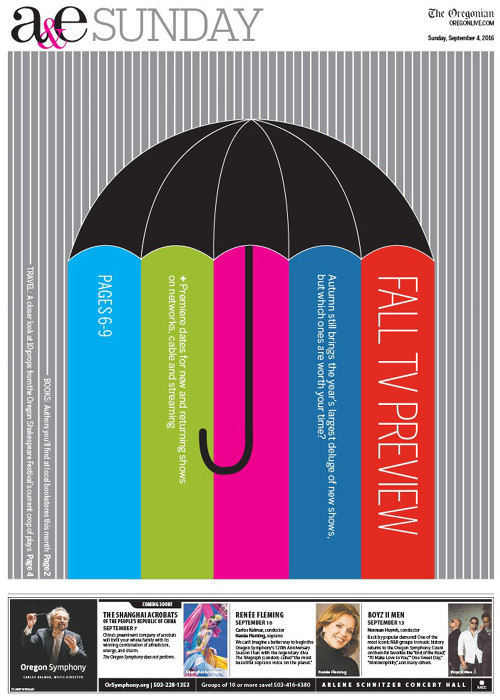
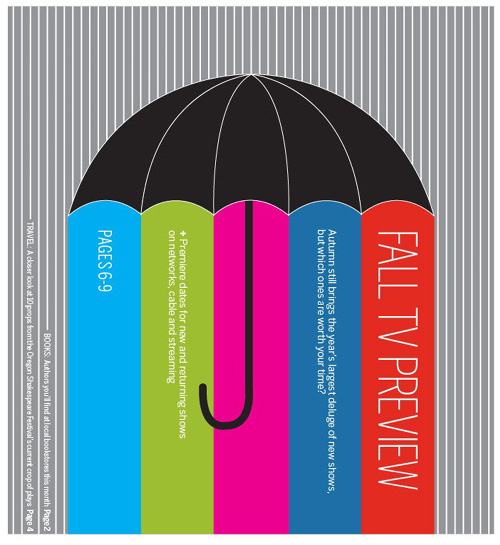
edits to text and images

diff --git a/index.html b/index.html
@@ -27,15 +27,16 @@
         <div class="item flex">
           <img src="resources/images/pi-shades.jpg" alt="illustration about 50 Shades of Grey's Portland connection">
           <p>I created this photo illustration for an a&ampe Sunday cover of The Oregonian. I started with a photograph of the
-            Made in Portland sign. I changed the words on the sign and I took a photograph of a gold ribbon that
-            happened to be handy, changed its color in Photoshop and added it to the illustration.</p>
+            Made in Portland sign. I changed the words on the sign and photographed a ribbon that
+            became the sash over the deer's eyes.</p>
           </div>
           <div class="item flex">
             <img src="resources/images/page-biz-pdx2.jpg" alt="Doubletruck for The Oregonian about Portland's changing skyline">
-            <p>Dozens of photos taken from a helicopter were stitched together to create panoramas of Portland's
+            <p>For this two-page spread, we stitched together dozens of photos taken from a helicopter to show Portland's
             changing skyline. This package which took two broadsheet pages shows the different areas along the waterfront
-          and the development planned for each. The design challenge was to organize all the disparate pieces of
-        information and keep the page inviting and approachable.</p>
+          and the development planned for each. The challenge was to get the wealth of
+        information, including each building's location, function, height, number of units and development status,
+        oraganized in way that made the page inviting and approachable.</p>
           </div>
           <div class="item flex">
             <img src="resources/images/pi-bbq.jpg" alt="illustration for bbq section">
@@ -53,7 +54,7 @@
           </div>
           <div class="item flex">
             <img src="resources/images/pi-books.jpg" alt="illustration about the gender gap for the Oregon book awards">
-            <p>Technology isn't always the answer. For a story on the gender gap in winners of the Oregon Book Awards, I got out my scissors and couple pages from a book.</p>
+            <p>Creativity can trump technology. For a story on the gender gap in the Oregon Book Awards, I got out my scissors and couple pages from a book.</p>
           </div>
           <div class="item flex">
             <img src="resources/images/page-ae-summer.jpg" alt="Sunday entertainment cover for The Oregonian about things to do before summer ends">
@@ -61,14 +62,14 @@
           </div>
           <div class="item flex">
             <img src="resources/images/pi-f-tools.jpg" alt="Photo and graphic of useful kitchen tools">
-            <p>This page has a lot of information to get across, but makes it easy to dive right in.
-              I assembled all the tools mentioned in the story on my dining room table and photographed them so that
-              each graph points right to the item discussed. </p>
+            <p>This page delivers a lot of information and is easy to navigate.
+              I assembled all the tools mentioned in the story on my dining room table so that
+              each description is alligned with the item discussed. </p>
           </div>
 
           <div class="item flex">
             <img src="resources/images/page-ae-tv.jpg" alt="Fall TV preview on the Sunday entertainment cover for The Oregonian">
-            <p>I created the illustration for this page all in InDesign because, in Portland, the only thing as predictable
+            <p>I created this illustration for the a&ampe Sunday cover because, in Portland, the only thing as predictable
             as the arrival of new television shows each fall is the arrival of the rain.</p>
           </div>
           <div class="item flex">
@@ -79,17 +80,11 @@
           </div>
           <div class="item flex">
             <img src="resources/images/page-diner.jpg" alt="Cover of the Diner special section for The Oregonian">
-            <p>Sometimes a designer just needs to know how to get out of the way of a mouth-watering photo.</p>
-          </div>
-          <div class="item flex">
-            <img src="resources/images/page-a-madaline.jpg" alt="A1 for The Oregonian about Madaline Pitkin">
-<!--          <img src="resources/images/page-biz-pdx1.jpg" alt="Portion of Business cover for The Oregonian about Portland's changing skyline">-->
-            <p>Madaline Pitkin died from withdrawl in a Washington County jail cell after all her pleas for help were ignored.
-            I wanted this page to pull you right in to the shock of the story.</p>
+            <p>As a designer, I know that sometimes the answer is to get out of the way of a mouth-watering photo.</p>
           </div>
           <div class="item flex">
             <img src="resources/images/flyer-dahlia.jpg" alt="Flyer for Portland Garden Tour West">
-            <p>Even though I am used to designing for an audience of hundreds of thousands, sometimes
+            <p>Even though for workk I am designing for a mass-market audience, sometimes at home
               I'm just designing a flyer for my daughter's school.</p>
           </div>      </div>
 
@@ -100,7 +95,7 @@
         <p>I am a communications professional with a passion for visual storytelling and a wealth of experience
 in design and editing. An adept problem solver, I am skilled at prioritizing resources and achieving demanding
 deadlines. I am happiest professionally when I am challenged and able to make a product or a situation better.
-I love to help other people and thrive in team environments.  </p>
+I love to help other people and I thrive in team environments.  </p>
       </div>
 
     </main>
